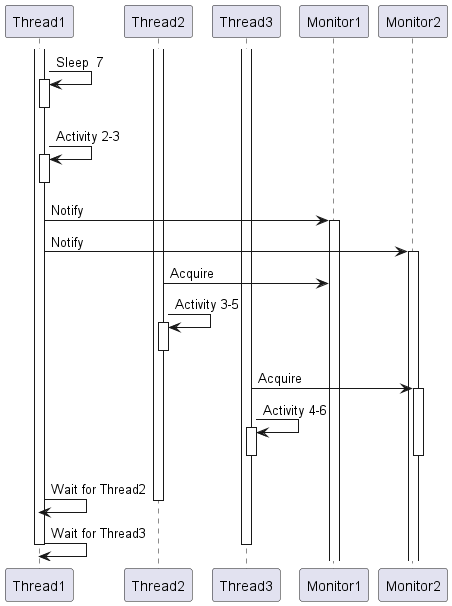
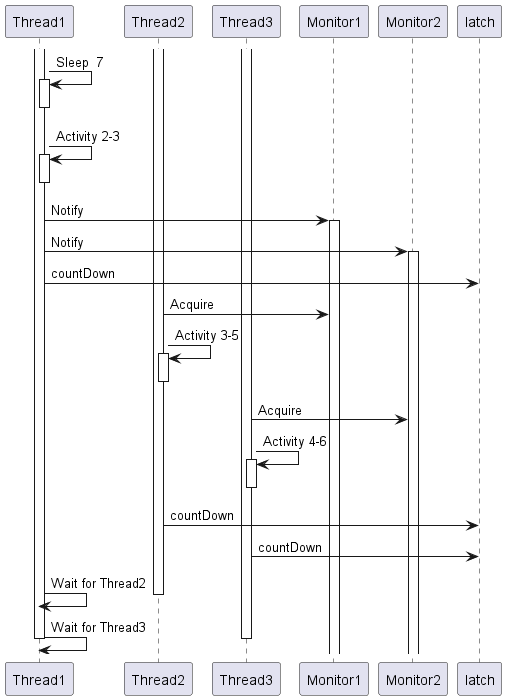
fixed a diagram and a bit of code

Changed region(s): [[0.0, 0.0, 1.0, 1.0]]

diff --git a/RTS/src/LabSession5/Lab7/App3/ExecutionThread2.java b/RTS/src/LabSession5/Lab7/App3/ExecutionThread2.java
@@ -34,5 +34,14 @@ public class ExecutionThread2 extends Thread {
 
         System.out.println(this.getName() + " - STATE 3");
         latch.countDown();
+
+        try
+        {
+            latch.await();
+        }
+        catch (InterruptedException e)
+        {
+            e.printStackTrace();
+        }
     }
 }
